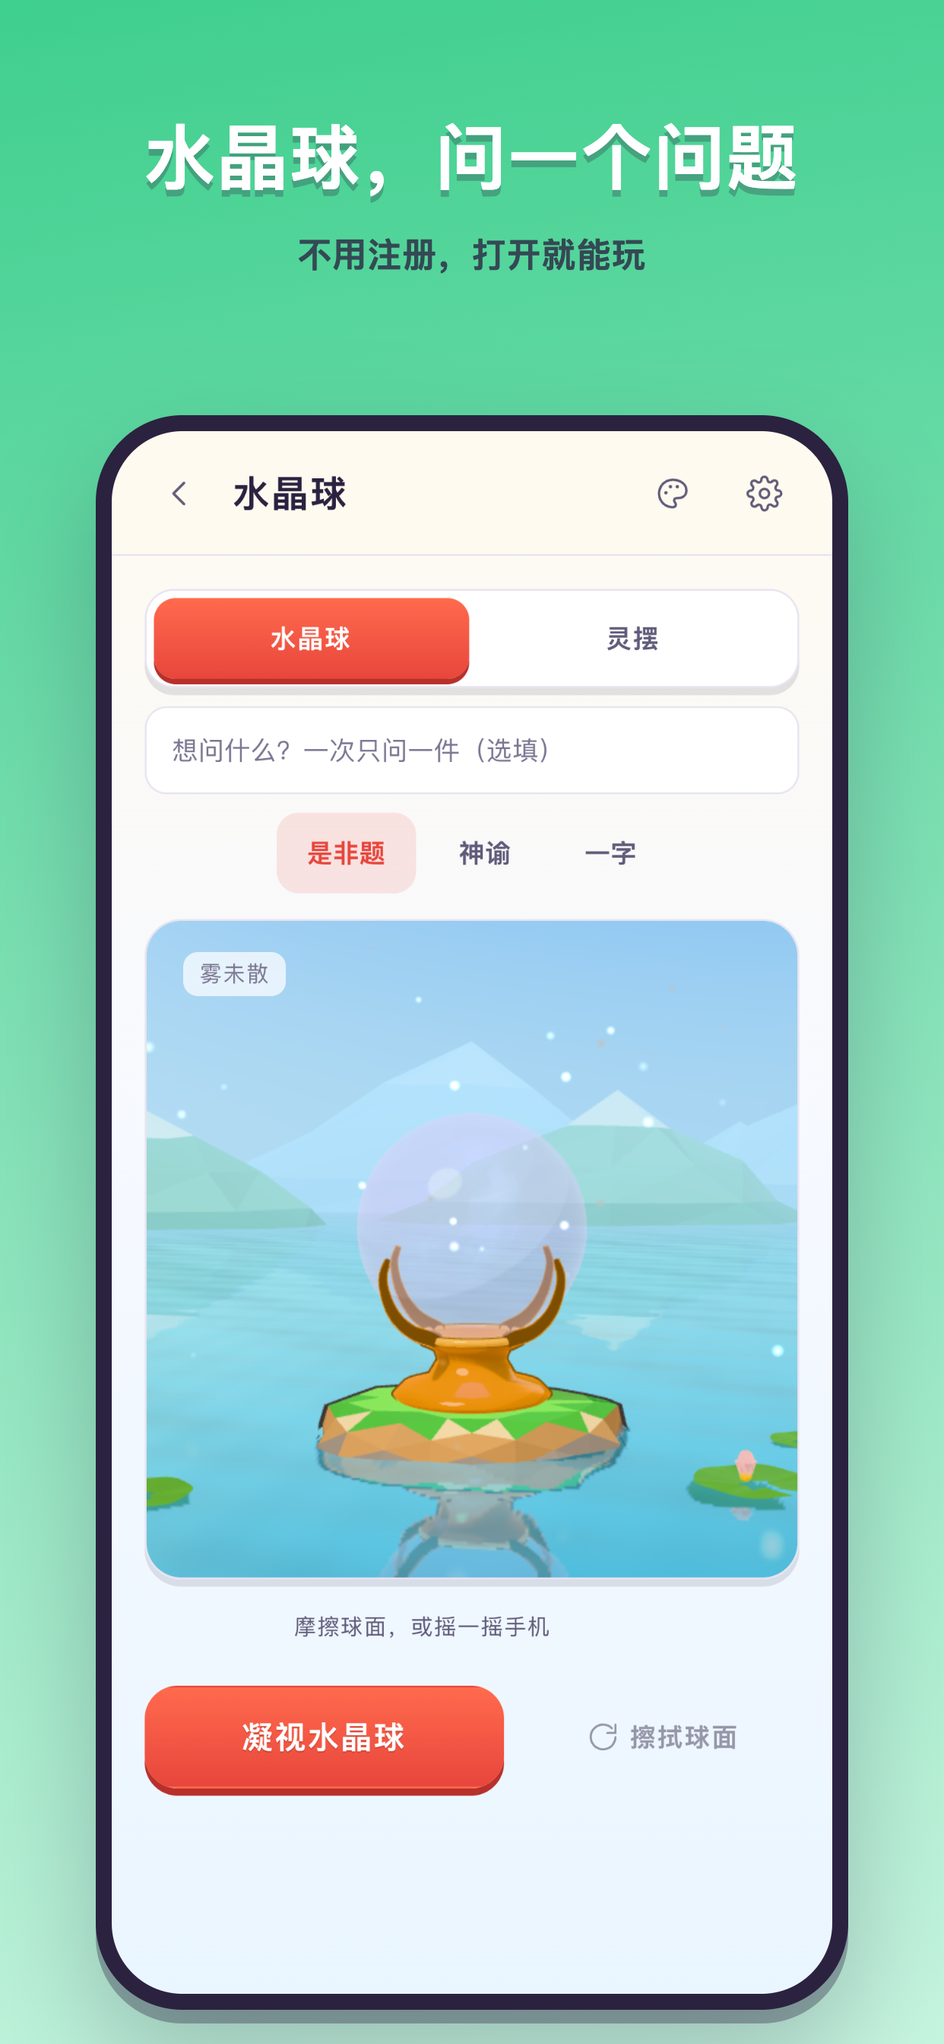
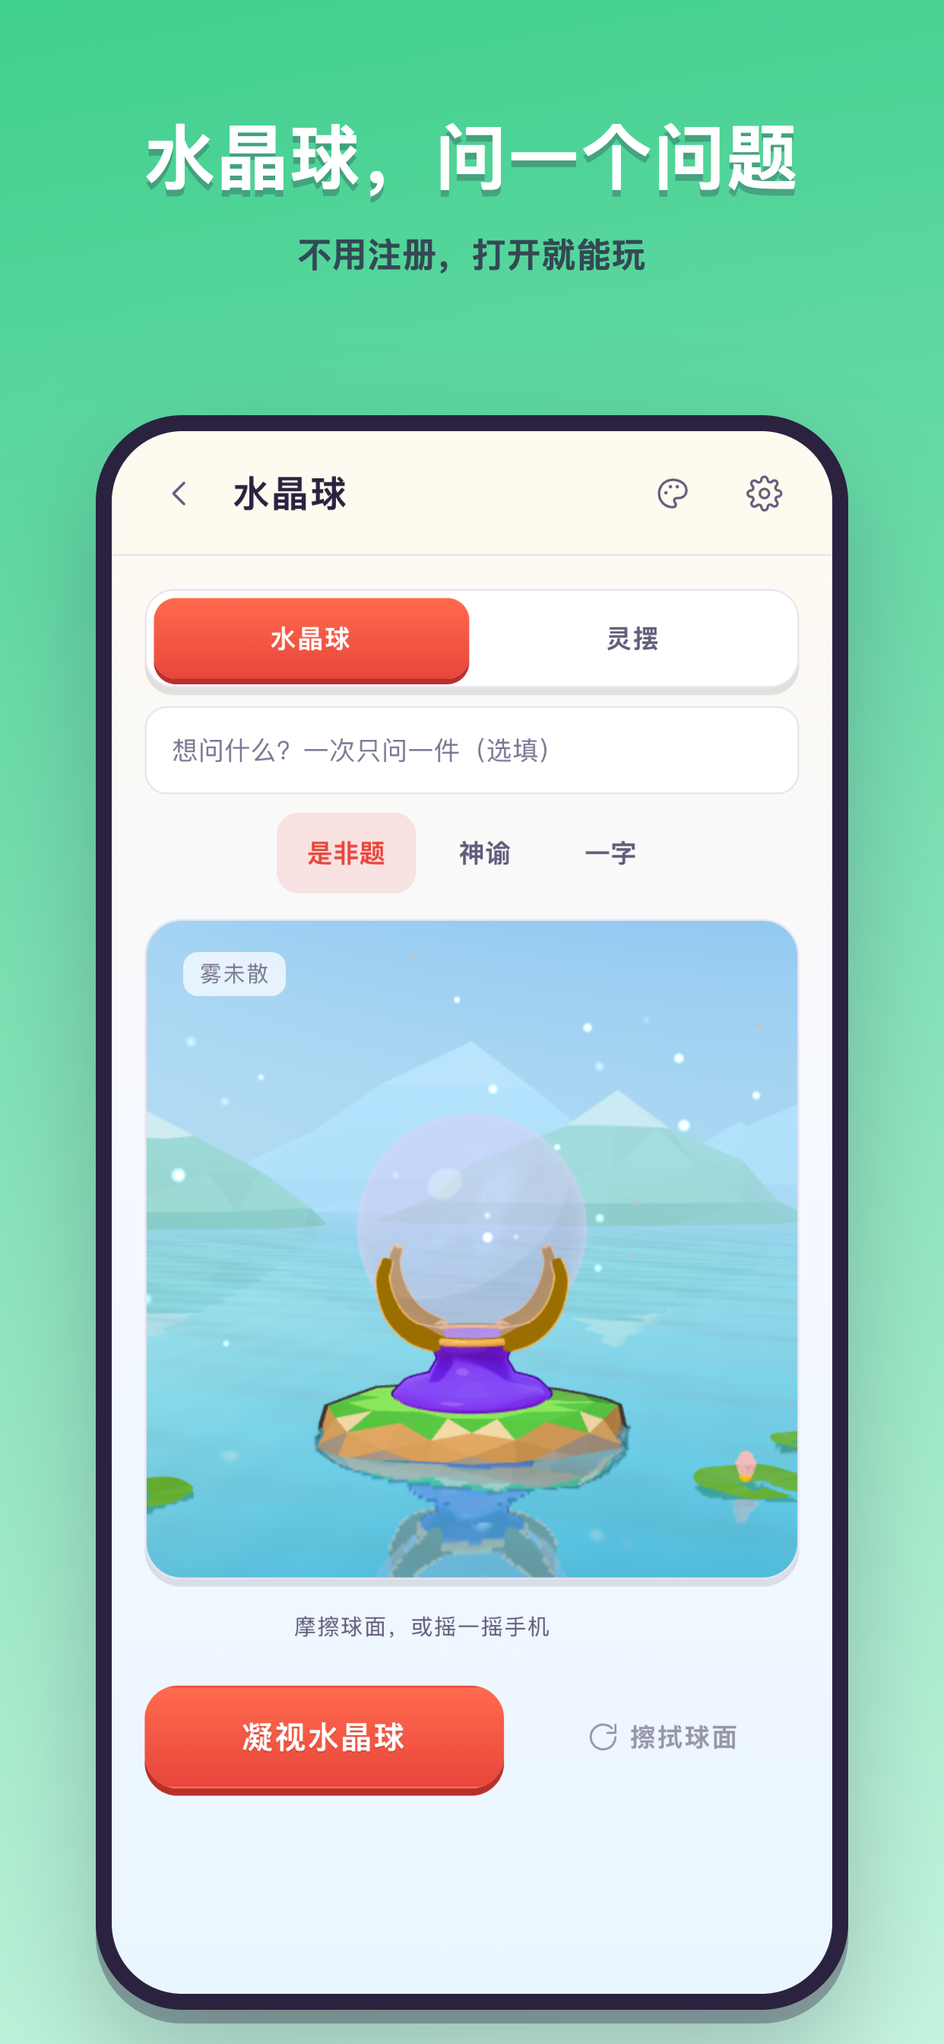
八字命牌、灵摆宝石、水晶球底座卡通化，按新底座重拍商店截图
- 命牌：朱漆牌身金帽，奶油牌面朱红粗框，干支深墨描边并用饱和五行色，未排盘时为金色问号圆章，贴图比例与牌面一致
- 灵摆：不透明饱和紫宝石放大 1.4 倍，亮起的字加深色描边、发光峰值降到 0.6
- 水晶球：哑光紫底座配金色粗托爪
- tests/pillars.test.mjs 3 项，visual-direction.md 补三行参数

Claude-Session: https://claude.ai/code/session_01Hivbv2SnM6bmXA4SyFWboV

Changed region(s): [[0.3671, 0.5938, 0.6731, 0.7812], [0.7343, 0.7188, 0.8261, 0.7812], [0.3366, 0.6875, 0.3671, 0.7188]]

diff --git a/src/ui/stage/scenes/pillars.js b/src/ui/stage/scenes/pillars.js
@@ -4,19 +4,46 @@ import { THREE, MAT, RoundedBoxGeometry, plinth, clamp, damp } from './common.js
 import { canvasTexture, woodTexture, softDot, FONT, rng } from '../organic.js';
 import { pillarPose } from '../../models/geometry.js';
 
-const WX = { 木: '#3f7a54', 火: '#b6463c', 土: '#8f6a2c', 金: '#5f7680', 水: '#3a6694' };
-function drawTablet(c, w, h, entry, i, unknownHour) {
+// 第 21 轮卡通化：五行用色板里的饱和色，字带深墨粗描边，像手游卡牌上的字（visual-direction.md 第 2 节「命牌」）
+export const WX = { 木: '#22c46c', 火: '#e8463c', 土: '#e0942a', 金: '#f2b318', 水: '#3a9cf0' };
+export const TABLET_TEX = [300, 880]; // 与牌面 0.44 × 1.29 同比例，字不再被纵向拉长
+function roundRect(c, x, y, w, h, r) { c.beginPath(); c.roundRect ? c.roundRect(x, y, w, h, r) : c.rect(x, y, w, h); }
+export function drawTablet(c, w, h, entry, i, unknownHour) {
   c.clearRect(0, 0, w, h);
-  c.fillStyle = '#f3e7cc'; c.fillRect(0, 0, w, h);
-  c.strokeStyle = 'rgba(120,80,40,.35)'; c.lineWidth = 6; c.strokeRect(14, 14, w - 28, h - 28);
+  c.fillStyle = '#fff6df'; c.fillRect(0, 0, w, h);
+  // 内框：朱红粗边 + 一道金线
+  c.lineJoin = 'round';
+  roundRect(c, 14, 14, w - 28, h - 28, 26); c.lineWidth = 10; c.strokeStyle = '#e8463c'; c.stroke();
+  roundRect(c, 30, 30, w - 60, h - 60, 16); c.lineWidth = 4; c.strokeStyle = '#ffc93c'; c.stroke();
   c.textAlign = 'center'; c.textBaseline = 'middle';
-  c.fillStyle = '#6b4a2a'; c.font = `700 34px ${FONT}`;
-  c.fillText(entry?.label || ['年柱', '月柱', '日柱', '时柱'][i], w / 2, 70);
-  const big = (txt, y, el) => { c.font = `900 ${unknownHour ? 80 : 118}px ${FONT}`; c.fillStyle = WX[el] || '#b08a52'; c.fillText(txt, w / 2, y); };
-  big(entry?.gan || (unknownHour ? '未' : '·'), 205, entry?.ganElement);
-  big(entry?.zhi || (unknownHour ? '知' : '·'), 345, entry?.zhiElement);
-  c.fillStyle = '#6b4a2a'; c.font = `600 30px ${FONT}`;
-  c.fillText(entry?.shiShen || (unknownHour ? '未计入' : ''), w / 2, 455);
+  // 顶部红色标签条，白字
+  roundRect(c, 52, 52, w - 104, 76, 38); c.fillStyle = '#e8463c'; c.fill();
+  c.fillStyle = 'rgba(0,0,0,.18)'; c.fillRect(70, 122, w - 140, 6);
+  c.fillStyle = "#ffffff"; c.font = `900 54px ${FONT}`;
+  c.fillText(entry?.label || ['年柱', '月柱', '日柱', '时柱'][i], w / 2, 92);
+  const big = (txt, y, el, size) => {
+    c.font = `900 ${size}px ${FONT}`;
+    c.lineWidth = size * .1; c.strokeStyle = '#2b2240'; c.strokeText(txt, w / 2, y);
+    c.fillStyle = WX[el] || '#ffc93c'; c.fillText(txt, w / 2, y);
+  };
+  if (entry?.gan) { big(entry.gan, 310, entry.ganElement, 186); big(entry.zhi, 540, entry.zhiElement, 186); }
+  else if (unknownHour) { big('未', 320, null, 150); big('知', 520, null, 150); }
+  else {
+    // 还没排盘：两枚金色问号圆章，等待翻开
+    [310, 540].forEach((y) => {
+      c.beginPath(); c.arc(w / 2, y, 74, 0, Math.PI * 2); c.fillStyle = '#ffe9a8'; c.fill();
+      c.lineWidth = 8; c.strokeStyle = '#e0a21e'; c.stroke();
+      c.font = `900 96px ${FONT}`; c.fillStyle = '#e0a21e'; c.fillText('?', w / 2, y + 4);
+    });
+  }
+  const tag = entry?.shiShen || (unknownHour ? '未计入' : '');
+  if (tag) {
+    c.font = `900 50px ${FONT}`;
+    const tw = Math.min(w - 64, c.measureText(tag).width + 44);
+    roundRect(c, (w - tw) / 2, 726, tw, 78, 39); c.fillStyle = '#ffc93c'; c.fill();
+    c.lineWidth = 4; c.strokeStyle = '#d8901e'; c.stroke();
+    c.fillStyle = '#5a3410'; c.fillText(tag, w / 2, 765);
+  }
 }
 
 export default {
@@ -32,13 +59,13 @@ export default {
     const trim = new THREE.Mesh(new RoundedBoxGeometry(3.04, .03, .76, 3, .012), gold); trim.position.y = -.875; world.add(trim);
     const tabletGeo = new RoundedBoxGeometry(.52, 1.5, .2, 4, .04);
     const capGeo = new RoundedBoxGeometry(.58, .07, .24, 3, .025);
-    const tabMat = MAT.wood(null, '#efe1c2');
+    const tabMat = MAT.lacquer('#e8463c'); // 朱漆牌身，牌面四周露出一圈红边
     const tablets = [0, 1, 2, 3].map((i) => {
       const g = new THREE.Group(); world.add(g);
       g.add(new THREE.Mesh(tabletGeo, tabMat));
       const top = new THREE.Mesh(capGeo, gold); top.position.y = .76; const bot = new THREE.Mesh(capGeo, gold); bot.position.y = -.76; g.add(top, bot);
-      const tex = canvasTexture(320, 520, (c, w, h) => drawTablet(c, w, h, null, i, false));
-      const face = new THREE.Mesh(new THREE.PlaneGeometry(.46, .75 * 1.82), new THREE.MeshStandardMaterial({ map: tex, roughness: .8 })); face.position.z = .102; g.add(face);
+      const tex = canvasTexture(TABLET_TEX[0], TABLET_TEX[1], (c, w, h) => drawTablet(c, w, h, null, i, false));
+      const face = new THREE.Mesh(new THREE.PlaneGeometry(.44, 1.29), new THREE.MeshStandardMaterial({ map: tex, roughness: .8 })); face.position.z = .102; g.add(face);
       api.shadows(g, true, true);
       return { g, tex };
     });

diff --git a/src/ui/stage/scenes/pendulum.js b/src/ui/stage/scenes/pendulum.js
@@ -17,7 +17,9 @@ function drawBoard(c, w, highlight = null, glowOnly = false) {
   const label = (t, x, y, kind) => {
     const on = highlight === kind;
     if (glowOnly && !on) return;
-    c.fillStyle = glowOnly ? '#ffffff' : on ? '#c8281f' : '#2e1a0b'; c.fillText(t, x, y);
+    // 亮起的字加深色粗描边，发光叠上去后仍读得出（第 21 轮，原来发光会把红字冲成淡粉）
+    if (on && !glowOnly) { c.lineJoin = 'round'; c.lineWidth = w * .022; c.strokeStyle = '#5a1410'; c.strokeText(t, x, y); }
+    c.fillStyle = glowOnly ? '#ffffff' : on ? '#e8463c' : '#2e1a0b'; c.fillText(t, x, y);
   };
   label('是', cx, w * .2, 'yes'); label('是', cx, w * .8, 'yes'); label('否', w * .2, cx, 'no'); label('否', w * .8, cx, 'no');
 }
@@ -37,7 +39,7 @@ export default {
     const glowTex = canvasTexture(1024, 1024, (c, w) => drawBoard(c, w, null, true));
     const faceMat = new THREE.MeshStandardMaterial({ map: faceTex, transparent: true, roughness: .7, emissive: '#ff5a1f', emissiveMap: glowTex, emissiveIntensity: 0, polygonOffset: true, polygonOffsetFactor: -1 });
     const face = new THREE.Mesh(new THREE.CircleGeometry(1.12, 96), faceMat); face.rotation.x = -Math.PI / 2; face.position.y = -.838; world.add(face);
-    glow.add('label', { materials: [faceMat], color: '#ff6a2a', base: 0, peak: 1.1 });
+    glow.add('label', { materials: [faceMat], color: '#ff6a2a', base: 0, peak: .6 }); // 峰值 1.1 会把红字冲成淡粉
     const bronze = MAT.bronze(), gold = MAT.gold();
     const anchor = new THREE.Vector3(0, 1.2, 0);
     const arm = new THREE.Mesh(taperedTube([[1.02, -.84, -.62], [1.06, .2, -.62], [1.0, 1.0, -.5], [.6, 1.3, -.22], [0, 1.28, 0]], (t) => .055 - t * .025, { radial: 12, segments: 60, bark: .04, seed: 93 }), bronze);
@@ -46,10 +48,12 @@ export default {
     const LINKS = 30, linkGeo = new THREE.TorusGeometry(.022, .006, 6, 14);
     const chain = new THREE.InstancedMesh(linkGeo, gold, LINKS); chain.castShadow = true; world.add(chain);
     const bob = new THREE.Group(); world.add(bob);
-    const crystalMat = new THREE.MeshPhysicalMaterial({ color: '#b98cf2', roughness: .05, metalness: 0, transmission: .55, thickness: .35, ior: 1.55, flatShading: true, clearcoat: 1, emissive: '#c9a6ff', emissiveIntensity: 0 });
+    // 第 21 轮：原来是半透明玻璃，小屏上淡得看不见。改为不透明的饱和紫宝石，平面着色出切面，可以描边
+    const crystalMat = new THREE.MeshPhysicalMaterial({ color: '#9b6bff', roughness: .2, metalness: 0, flatShading: true, clearcoat: 1, emissive: '#c9a6ff', emissiveIntensity: 0 });
     const gem = new THREE.Mesh(new THREE.LatheGeometry([[0, -.24], [.1, .0], [.115, .04], [.07, .1], [0, .12]].map(([x, y]) => new THREE.Vector2(x, y)), 8), crystalMat);
     const cap = new THREE.Mesh(new THREE.CylinderGeometry(.035, .05, .04, 16), gold); cap.position.y = .13;
     bob.add(gem, cap); api.shadows(bob, true, false);
+    const BOB_SCALE = 1.4; bob.scale.setScalar(BOB_SCALE); // 放大后底尖离木盘仍有约 0.04
     glow.add('gem', { object: bob, materials: [crystalMat], color: '#c9a6ff', size: .7, base: .05, peak: .9 });
 
     api.reeds({ spots: [[-2.6, api.water.y, -1.4], [2.7, api.water.y, -2.0]], perSpot: 12, height: 1.05 });
@@ -81,7 +85,7 @@ export default {
         dir.copy(anchor).sub(pos).normalize();
         bob.quaternion.setFromUnitVectors(up, dir);
         bob.rotateY(t * .4);
-        const top = pos.clone().addScaledVector(dir, .15);
+        const top = pos.clone().addScaledVector(dir, .15 * BOB_SCALE);
         for (let i = 0; i < LINKS; i++) {
           const u = (i + .5) / LINKS; const p = top.clone().lerp(anchor, u);
           q.setFromUnitVectors(up, dir); q.multiply(new THREE.Quaternion().setFromAxisAngle(up, i % 2 ? Math.PI / 2 : 0));

diff --git a/src/ui/stage/scenes/crystal.js b/src/ui/stage/scenes/crystal.js
@@ -35,14 +35,16 @@ export default {
   build(api) {
     const { world, glow } = api;
     world.add(plinth(api, { radius: .95, height: .48, seed: 81, top: -.98 }));
-    const bronze = MAT.bronze(), gold = MAT.gold();
-    const base = new THREE.Mesh(new THREE.LatheGeometry([[0, 0], [.42, 0], [.46, .04], [.4, .1], [.26, .14], [.2, .24], [.22, .3], [.3, .34], [.32, .38], [0, .38]].map(([x, y]) => new THREE.Vector2(x, y)), 64), bronze);
+    // 第 21 轮：底座原来是青铜，卡通化后成了一大块发亮的橙色塑料。改为哑光紫底座配金色粗托爪，和紫色星雾呼应
+    // 哑光：漆面硬高光在弧形底座上会连成一条亮带
+    const lacquer = MAT.matte('#8a5cf0'), gold = MAT.gold();
+    const base = new THREE.Mesh(new THREE.LatheGeometry([[0, 0], [.42, 0], [.46, .04], [.4, .1], [.26, .14], [.2, .24], [.22, .3], [.3, .34], [.32, .38], [0, .38]].map(([x, y]) => new THREE.Vector2(x, y)), 64), lacquer);
     base.position.y = -.98; world.add(api.shadows(base));
     const ring = new THREE.Mesh(new THREE.TorusGeometry(.31, .02, 10, 64), gold); ring.rotation.x = Math.PI / 2; ring.position.y = -.6; world.add(ring);
     const center = new THREE.Vector3(0, .02, 0), R = .66;
     for (let i = 0; i < 4; i++) {
       const a = i / 4 * Math.PI * 2 + Math.PI / 4, c = Math.cos(a), s = Math.sin(a);
-      const claw = new THREE.Mesh(taperedTube([[c * .28, -.6, s * .28], [c * .48, -.53, s * .48], [c * .62, -.4, s * .62], [c * .68, -.22, s * .68], [c * .64, -.12, s * .64]], (t) => .05 - t * .03, { radial: 10, segments: 24, bark: .05, seed: 90 + i }), bronze);
+      const claw = new THREE.Mesh(taperedTube([[c * .28, -.6, s * .28], [c * .48, -.53, s * .48], [c * .62, -.4, s * .62], [c * .68, -.22, s * .68], [c * .64, -.12, s * .64]], (t) => .075 - t * .04, { radial: 10, segments: 24, bark: 0, seed: 90 + i }), gold);
       world.add(api.shadows(claw));
     }
     // 卡通玻璃：半透明浅蓝 + 硬高光 + 边缘光（由 toon.js 统一着色），不用透射（透射在卡通光照下会发黑）

diff --git a/docs/claude-plan/run-log.md b/docs/claude-plan/run-log.md
@@ -654,3 +654,36 @@
 - 徽章名字是否满意。
 
 推送结果：提交 435463b 推送成功。
+
+
+## 第 21 轮 · 2026-10-24 19:54 UTC 起（PDT 12:54，定时任务）
+
+开始状态：工作区干净，与远端一致，.lock 为 idle。remote-devices 没有连接文件夹，所有命令通过 Desktop Commander 在 Mac 上执行。
+
+本轮按上一轮计划回到 3D 器物观感：先用 `npm run gallery:3d -- --themes paper` 重拍全部 11 件，逐张对照 visual-direction.md，挑出最弱的三处。
+
+完成的待办：
+- ✅ P2 八字命牌卡通化（最弱的一件）：原来牌身米色木头、牌面浅褐细字，未排盘时只有两个小点，整排像空白告示牌。改为朱漆牌身配金帽，牌面奶油底加朱红粗框和金线，顶部红色胶囊白字标签，干支黑重字带深墨描边、五行用饱和色，十神写在金色胶囊里，未排盘时是两枚金色「?」圆章。顺带修好牌面贴图比例：原来 320×520 贴在 0.46 × 1.37 的面上，字被纵向拉长 1.8 倍，现在 300×880 对 0.44 × 1.29。`tests/pillars.test.mjs` 3 项。
+- ✅ P2 灵摆宝石看不清：半透明淡紫玻璃在小屏上几乎看不见，改为不透明饱和紫平面切面并放大 1.4 倍。揭晓时亮起的「是 / 否」原来被发光冲成淡粉，改为深色粗描边红字，发光峰值从 1.1 降到 0.6。
+- ✅ P2 水晶球底座塑料感：青铜底座卡通化后成了发亮的橙色塑料，改为哑光紫底座配金色粗托爪，和球里的紫色星雾呼应。
+- ✅ P1 按新水晶球底座重拍商店截图：整套 139 秒，12 张尺寸核对无误，灵签上吉签，塔罗「星币王牌 · 正位」，水晶球是新底座。
+- 三处参数都写进 visual-direction.md 第 2 节表格（命牌、水晶球底座、灵摆宝石）。
+
+检查结果：
+- `npm run build` 通过，`npm test` 402 项全部通过（新增 3 项）。
+- `npm run e2e` 35 项全部通过（约 7.5 分钟），其中「只有指定材质发光」的发光登记检查通过，八字命牌翻转 e2e 通过。
+- gallery:3d：八字、灵摆、水晶球宣纸与玄墨两套过目，夜色下命牌与紫色底座都读得出形状。玄墨的水晶球那张是改哑光前的漆面版本，两者在截图里看不出差别。
+- iPhone 截图（docs/claude-plan/screenshots/，已用 git rm 删掉上一轮 7 张）：八字页、八字排盘结果、水晶球页，393×852 与 430×932 共 6 张，另附 gallery 6 张。report.json 无横向溢出、无报错，文字无截断。命牌在手机上干支清楚，顶部「年柱」等小标签偏小但可辨认。
+
+遗留问题：
+- 灵摆木盘、罗盘托盘、八字木台还是写实细木纹贴图，小屏上像噪点（已记 P2）。
+- 本轮途中发现 gallery 脚本在场景代码报错时日志仍显示「webgl」，没有明显的失败提示，以后改场景要以截图为准。
+- 财运滚动白带（P2）仍需真机录屏确认。
+
+下一轮计划：P2 木纹卡通化（罗盘、灵摆、八字三处统一），然后用 `--motion` 重拍动作弹性四张图，看看命牌翻转与灵摆摆动的弹性是否够。
+
+待 Peyton 决定：
+- 新的八字命牌、紫色水晶球底座观感，装到 iPhone 上看一眼。新商店截图在 docs/claude-plan/store/。
+- 小组件与断签提醒的真机验证（跑一次 `bash scripts/ios-try.sh`），签名报错多半是开发者账号要确认新的 `.widget` App ID。
+- 在 Xcode 里选 App 方案点一次运行，看付费卡与皮肤单买卡的本地化价格。
+- 年龄分级按 13+ 填写、3 个皮肤内购与价格档位、GitHub Pages 合并时机、TestFlight 是否每轮自动上传，同前几轮。

diff --git a/docs/claude-plan/TODO.md b/docs/claude-plan/TODO.md
@@ -81,4 +81,9 @@ P0 上架必需 · P1 影响付费转化 · P2 体验打磨。完成后打勾并
 - [ ] **断签提醒真机验证**（第 20 轮新增，P2）：装到 iPhone 后在设置里打开，系统弹出通知权限，当晚 9 点前不抽签能收到一条通知，轻点进入灵签页。完成标准：真机或模拟器收到一次（可临时把 `REMIND_HOUR` 改成几分钟后验证，验证完改回）。
 - [x] **锁屏小组件** ✅ 2026-10-24（第 20 轮，同一个扩展在 iOS 16 起加锁屏三种尺寸：时间上方一行「九月十五 · 宜祭祀」，圆形「九月 / 十五 / 宜祭祀」，矩形农历加生肖、宜忌各一行。锁屏由系统着色，只用主次两级文字和描边小框「宜」「忌」区分层次。节日名（如「万圣节前夜」）太长，所以时间上方一行只用农历。iOS 17 起每种尺寸都设 `containerBackground`，圆形用系统的 `AccessoryWidgetBackground`。`scripts/widget-preview.swift` 新增锁屏预览：今天、宜忌字数最多的一天、节日、闰月、表外兜底共 5 张过目，无截断。`tests/widget-data.test.mjs` 新增 1 项，`xcodebuild` 模拟器编译通过）
 
+- [x] **八字命牌卡通化** ✅ 2026-10-24（第 21 轮重拍 gallery:3d 全部 11 件后挑出的最弱一件：牌身是米色木头、牌面浅褐细字，未排盘时只有两个小点，整排像空白告示牌。改为朱漆牌身配金帽，牌面奶油底加朱红粗框与金线，顶部红色胶囊白字标签，干支 186px 黑重字带深墨描边、五行用饱和色，十神写在金色胶囊里，未排盘时是两枚金色「?」圆章。牌面贴图改为与牌面同比例 300×880，原来 320×520 贴在 0.46 × 1.37 的牌面上，字被纵向拉长 1.8 倍。参数写进 visual-direction.md 第 2 节「命牌」。`tests/pillars.test.mjs` 3 项）
+- [x] **灵摆宝石看不清** ✅ 2026-10-24（第 21 轮，同一次过目发现：半透明淡紫玻璃在小屏上几乎看不见，揭晓时发光把红色「是」冲成淡粉。宝石改为不透明饱和紫 #9b6bff 平面切面并放大 1.4 倍，亮起的字加深色粗描边，字的发光峰值从 1.1 降到 0.6）
+- [x] **水晶球底座的塑料感** ✅ 2026-10-24（第 21 轮，底座从青铜（卡通化后成了发亮的橙色）改为哑光紫 #8a5cf0，和球里的紫色星雾呼应，4 只托爪改为金色并加粗到 0.075、去掉树皮起伏。gallery:3d 浅深两套过目，玻璃球仍通透）（P2，第 21 轮发现）：橙色底座上有一大块连续的亮高光，托爪是暗褐色细条，和其他卡通器物比最像塑料玩具。完成标准：底座改为金色或朱漆分段明暗、托爪加粗提亮，gallery:3d 浅深两套过目，玻璃球保持通透。
+- [x] **按新水晶球底座重拍商店截图** ✅ 2026-10-24（第 21 轮，整套 139 秒，12 张尺寸核对 1290×2796 与 1242×2688，灵签上吉签，塔罗「星币王牌 · 正位」，第 6 张水晶球是新的紫色底座金托爪）（P1，第 21 轮发现）：商店图第 6 张是水晶球，底座还是旧的橙色。完成标准：`node scripts/store-shots.mjs` 重跑，12 张逐张过目，塔罗仍是积极正位牌。
+- [ ] **灵摆木盘的写实木纹**（P2，第 21 轮发现）：木盘与罗盘托盘仍用写实木纹贴图，细纹在小屏上像噪点。完成标准：换成 2 到 3 道粗的卡通木纹或纯色分圈，罗盘、灵摆、八字木台三处统一。
 - [x] **App 内显示版本号** ✅ 2026-10-22（Peyton 要求，设置页最底部一行「版本 1.0.0 · 第 N 版 · 构建时间 · 提交」，N 是 git 提交数只增不减，`tests/version.test.mjs` 2 项）

diff --git a/docs/claude-plan/visual-direction.md b/docs/claude-plan/visual-direction.md
@@ -23,6 +23,9 @@
 | 阴影 | 保留主光投影，阴影颜色偏冷紫（地光 #6a7bd6），PCF 软阴影半径 3，不再整体压暗 |
 | 石台（水中小岛） | 第 17 轮起用 `toonRock`：二十面体细分 3 级、起伏 0.2、平面着色出切面，每个面一种颜色。顶面亮草地 #86dc5c、外圈草边 #5cbf4c，侧面上段沙岩 #f2dcab、下段 #cf9f66，水线以下向 #6f9fb8 混 45% 再压暗 15%，切面明度随机 ±4.5%。不要写实石纹和青苔噪点 |
 | 远山 | 第 18 轮起用 `toonMountain`：8 边圆锥 4 段、噪声歪斜，每座主峰加一个 0.62 倍肩峰，平面着色。两排共 6 座：后排天蓝 #9fd2e8、山脚 #86bfdc、峰帽 #f4fbff，前排薄荷 #86c9b4、山脚 #6bb39f、峰帽 #eefaf4，峰帽在高度 0.7 以上，山脚在 0.22 以下，切面明度 ±5%。深色皮肤乘夜色 #6a64b4。雾负责远近层次，不另加描边 |
+| 命牌（八字） | 第 21 轮：牌身朱漆 #e8463c、上下金帽，牌面贴图 300×880 与 0.44 × 1.29 牌面同比例。牌面奶油底 #fff6df，内框朱红 10px 粗边加一道金线，顶部红色胶囊标签白字，干支 186px 黑重字带深墨 #2b2240 描边（字号 10%），五行色 木 #22c46c、火 #e8463c、土 #e0942a、金 #f2b318、水 #3a9cf0，十神写在金色胶囊里。未排盘时是两枚金色「?」圆章，不再是一个小点 |
+| 水晶球底座 | 第 21 轮：哑光紫 #8a5cf0（不用漆面，弧形底座上硬高光会连成亮带），4 只托爪金色、粗 0.075 收到 0.035，不加树皮起伏 |
+| 灵摆宝石 | 第 21 轮：不透明饱和紫 #9b6bff，8 边平面着色切面，整体放大 1.4 倍，不用透射玻璃（小屏上会淡到看不见） |
 | 天空与雾 | 浅色皮肤：天顶 #5ab8ff、地平线 #b4e3ff、水面 #4cc3d9 / 深水 #2789b8，雾距为场景原值 × 1.6（约 14–43 米）。深色皮肤：天顶 #1b1446、地平线 #4a3a8c，星点保留 |
 | 光照 | 半球光 天空 #e8f6ff / 地面 #ffd9a0，强度 1.05。主光暖白 #fff1d6 强度 1.5（三段明暗的亮段覆盖面大，主光再强会让朝光面过曝发白），位置 (−3.2, 5.6, 4.4)。轮廓光 #cfe0ff 0.6 |
 | 色调映射 | 保留 Neutral，曝光 1.05（浅色）/ 1.1（深色） |
